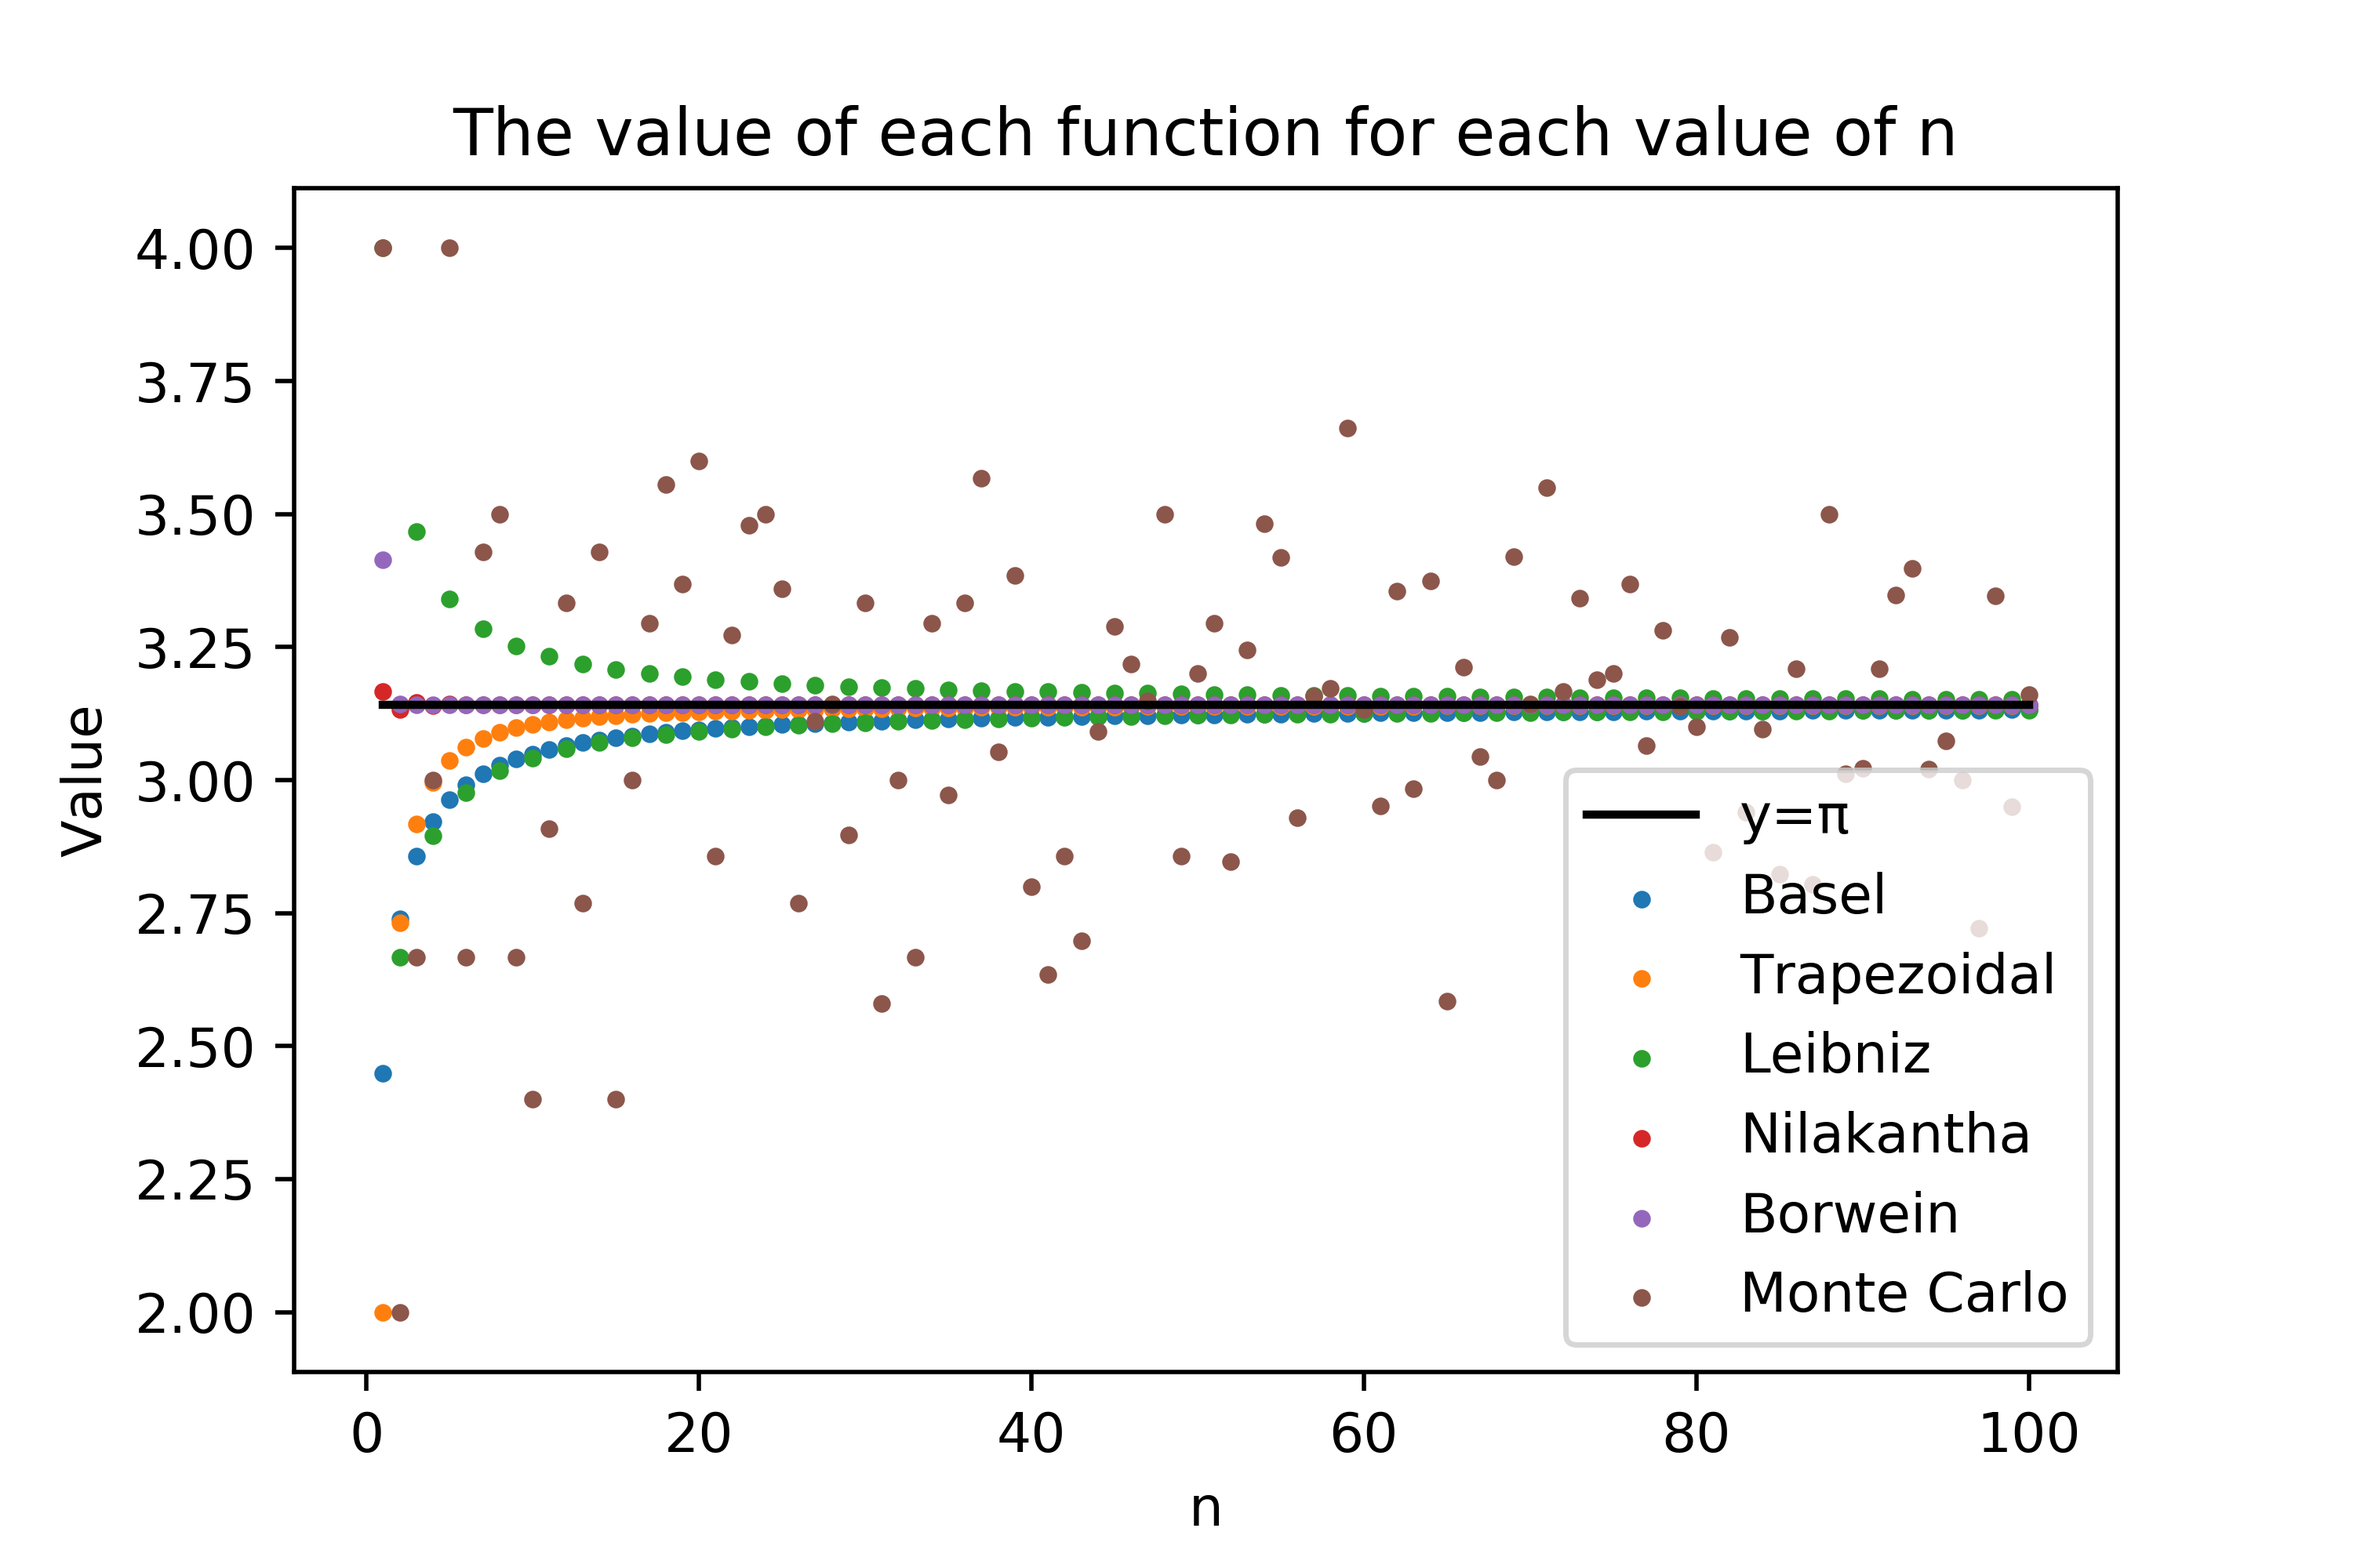
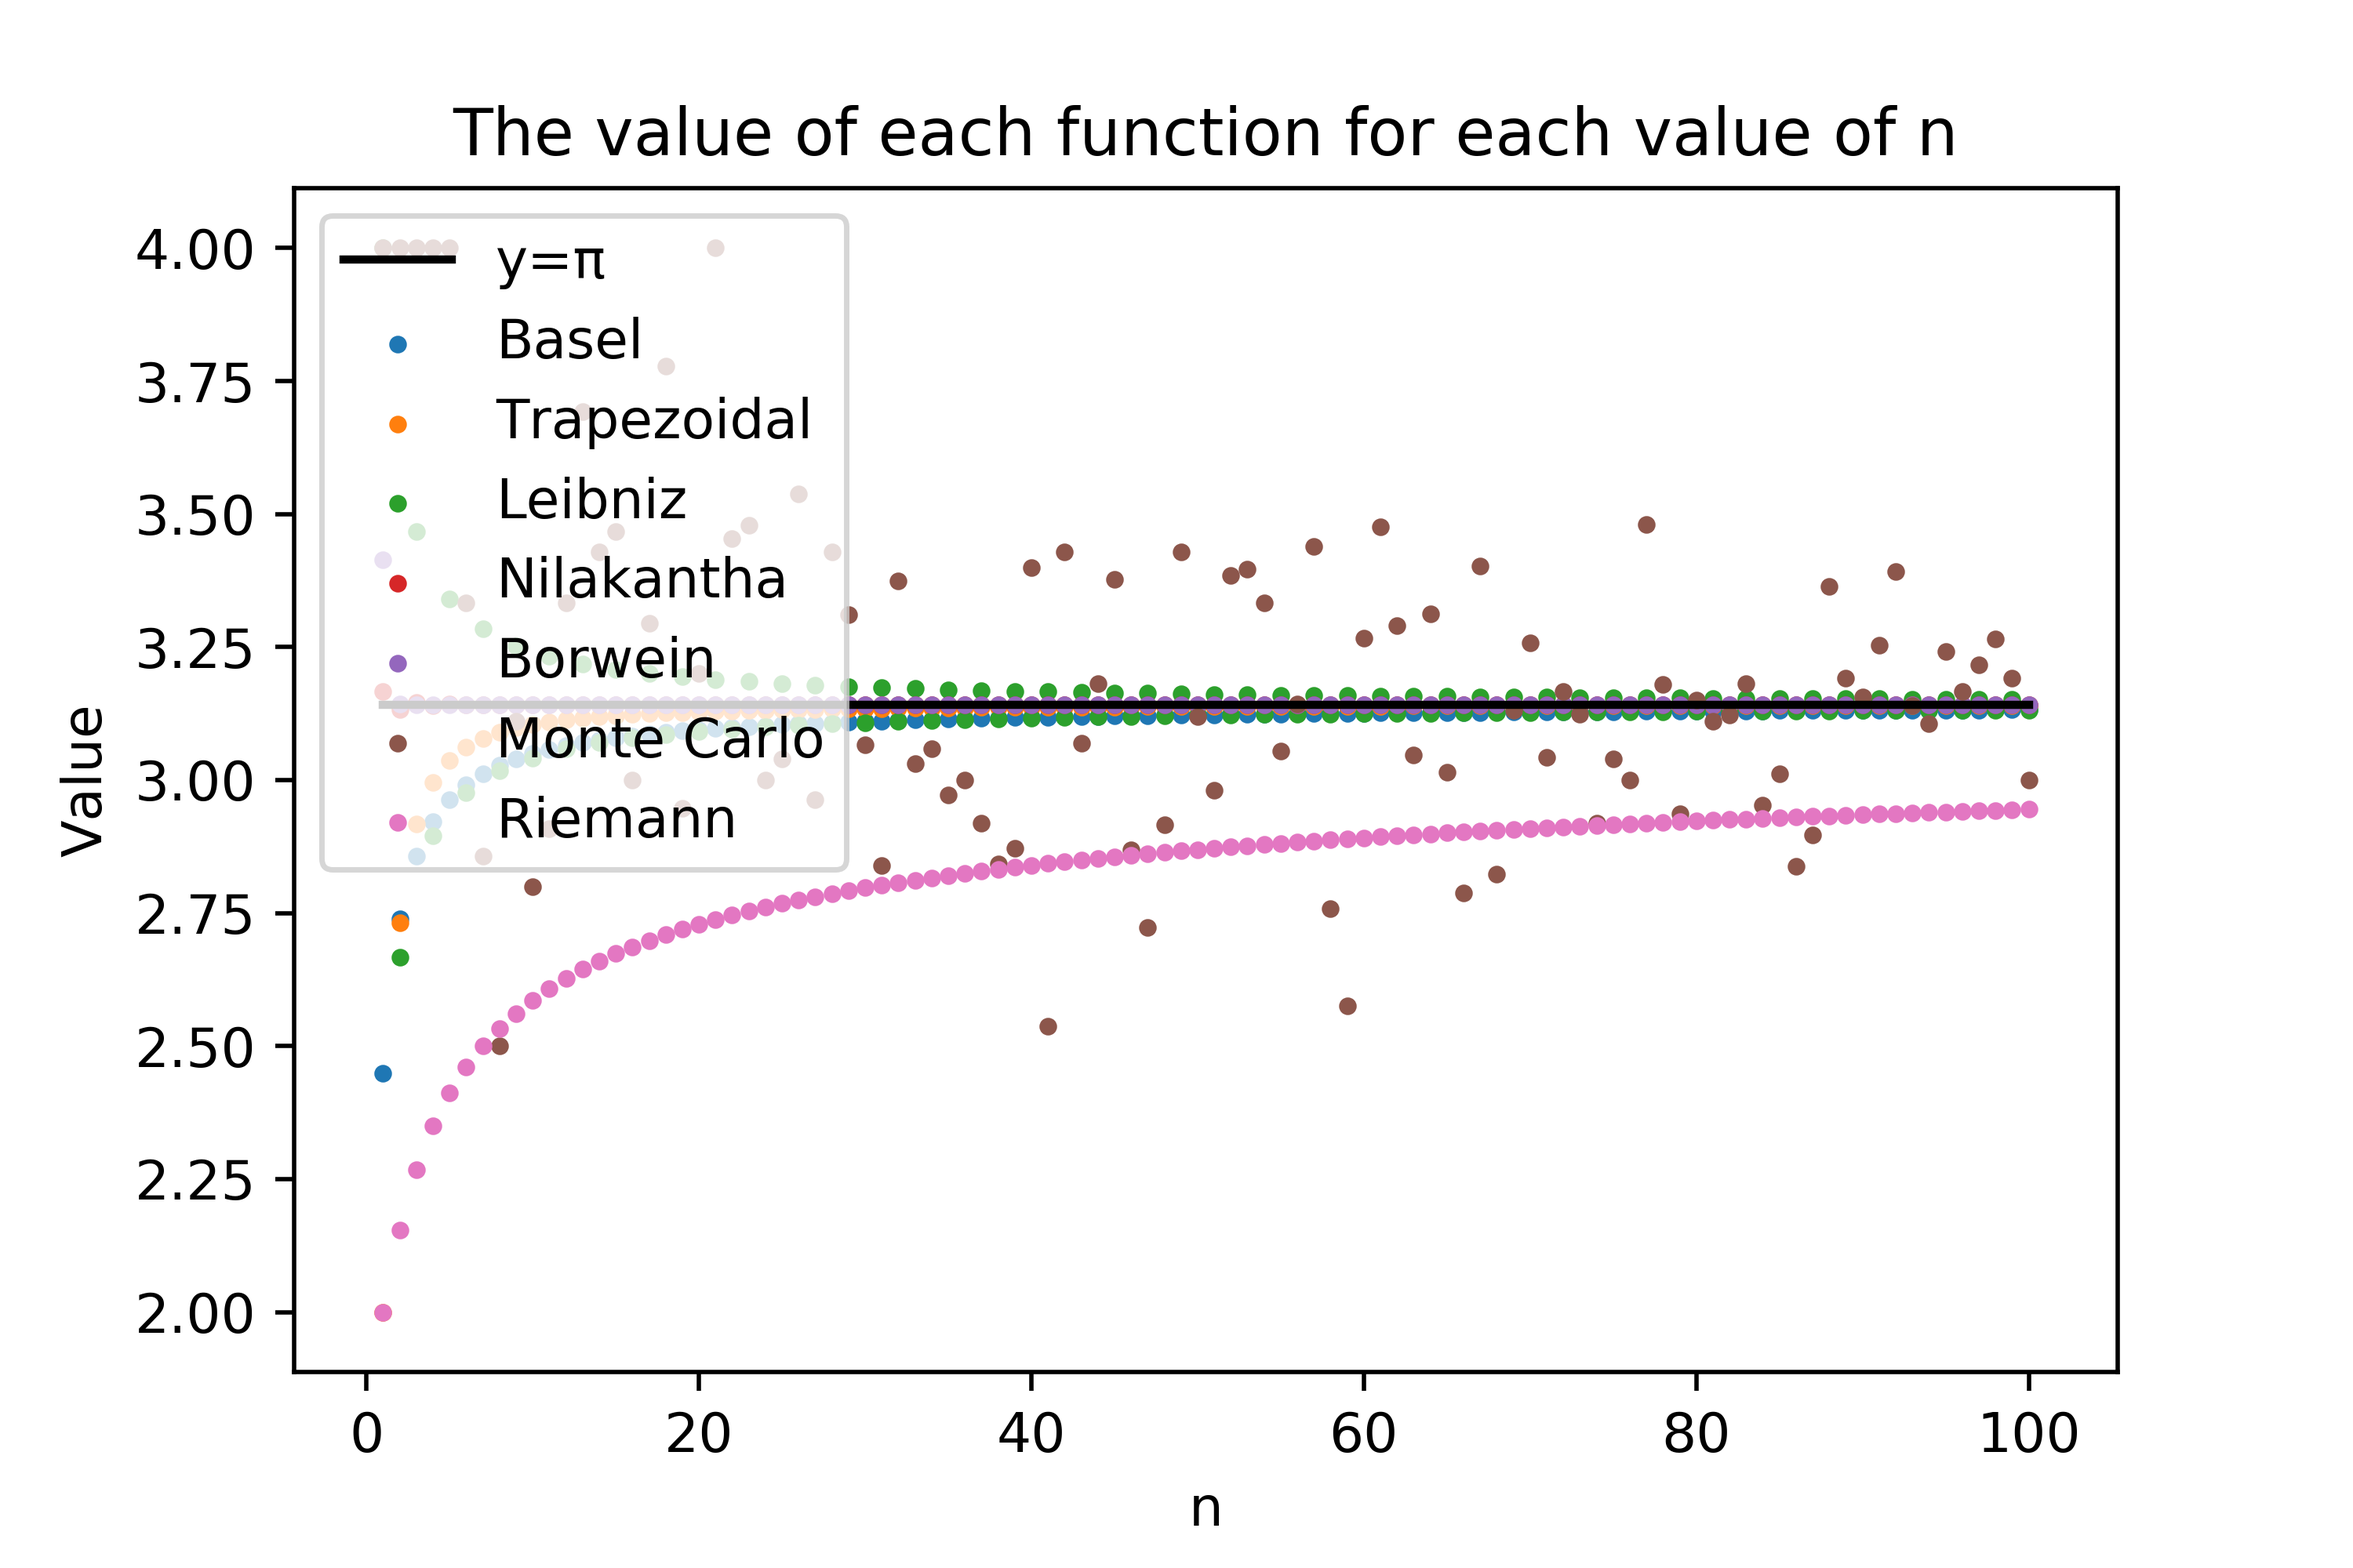
Add files via upload
Updated 'Convergence to pi.png' to include the Riemann sum estimation.

diff --git a/comparing_pi_estimates.py b/comparing_pi_estimates.py
@@ -16,11 +16,6 @@ def basel(n):
     basel_sum = sum([1/i**2 for i in range(1,n+1)])
     return math.sqrt(6*basel_sum)
 
-#This computes the Riemann sum of 1/sqrt(1-x^2), the derivative of arcsin(x) from 0 to 1 using n rectangles and left endpoints. The integral produces the value pi/2.
-def riemann(n):
-    riemann_sum = sum([(1/math.sqrt(1-(i/n)**2))*(1/n) for i in range(n)])
-    return 2*riemann_sum
-
 #This computes the trapezoidal sum of sqrt(1-x^2), the formula for the top half of the unit circle from 0 to 1 using n trapezoids. The integral produces the value pi/4.
 def trapezoid(n):
     sum = 0
@@ -36,22 +31,10 @@ def leibniz(n):
     leibniz_sum = sum([(-1)**(n+1)/(2*n-1) for n in range (1,n+1)])
     return 4*leibniz_sum
 
-
-
 #This computes the partial sum of 3 + 4(-1)^(n+1)/((2n)(2n+1)(2n+2)) which evaluates to pi.
 def nilakantha(n):
     nilakantha_sum = sum([4*(-1)**(n+1)/((2*n)*(2*n+1)*(2*n+2)) for n in range(1,n+1)])
     return 3+nilakantha_sum
-
-#This uses the monte carlo method with n points in a 2x2 square that circumscribes a circle with radius 1.
-def monte_carlo(n):
-    yeses = 0
-    for i in range(n):
-        x = random.uniform(-1, 1)
-        y = random.uniform(-1, 1)
-        if math.sqrt(x**2+y**2)<1:
-            yeses+=1
-    return 4*yeses/n
 
 #This uses Borwein's algorithm to recursively find pi. The value of borwein_p(n) converges to pi:
 bor_a = dict()
@@ -88,18 +71,27 @@ def borwein_p(n):
             borwein_p(n-1)
     return bor_p[n]
 
+#This uses the monte carlo method with n points in a 2x2 square that circumscribes a circle with radius 1.
+def monte_carlo(n):
+    yeses = 0
+    for i in range(n):
+        x = random.uniform(-1, 1)
+        y = random.uniform(-1, 1)
+        if math.sqrt(x**2+y**2)<1:
+            yeses+=1
+    return 4*yeses/n
+
+#This computes the Riemann sum of 1/sqrt(1-x^2), the derivative of arcsin(x) from 0 to 1 using n rectangles and left endpoints. The integral produces the value pi/2.
+def riemann(n):
+    riemann_sum = sum([(1/math.sqrt(1-(i/n)**2))*(1/n) for i in range(n)])
+    return 2*riemann_sum
+
 
 def basel_count(epsilon):
     basel_counter = 1
     while abs(basel(basel_counter)-math.pi)>=epsilon:
         basel_counter+=1
     return basel_counter
-
-def riemann_count(epsilon):
-    riemann_counter = 1
-    while abs(riemann(riemann_counter)-math.pi)>=epsilon:
-        riemann_counter +=1
-    return riemann_counter
 
 def trapezoid_count(epsilon):
     trapezoid_counter = 1
@@ -133,6 +125,12 @@ def monte_count(epsilon):
             carlo_count+=1
         monte_list.append(carlo_count)
     return numpy.median(monte_list)
+
+def riemann_count(epsilon):
+    riemann_counter = 1
+    while abs(riemann(riemann_counter)-math.pi)>=epsilon:
+        riemann_counter +=1
+    return riemann_counter
 
 def steps_to_epsilon(epsilon):
     print('To get your estimate within epsilon = ' + str(epsilon) + ' of π, it takes')
@@ -180,6 +178,7 @@ leibniz_list = [leibniz(point) for point in x2]
 nilakantha_list = [nilakantha(point) for point in x2]
 borwein_list = [borwein_p(point) for point in x2]
 monte_list = [monte_carlo(point) for point in x2]
+riemann_list = [riemann(point) for point in x2]
 
 plt.plot(x2,[math.pi]*len(x2), c='black')    
 plt.scatter(x2, basel_list, s=5)
@@ -188,9 +187,10 @@ plt.scatter(x2, leibniz_list, s=5)
 plt.scatter(x2, nilakantha_list, s=5)
 plt.scatter(x2, borwein_list, s=5)
 plt.scatter(x2, monte_list, s=5)
+plt.scatter(x2, riemann_list, s=5)
 plt.xlabel('n')
 plt.ylabel('Value')
 plt.title('The value of each function for each value of n')
-plt.legend(['y=π', 'Basel', 'Trapezoidal', 'Leibniz', 'Nilakantha', 'Borwein', 'Monte Carlo'])
+plt.legend(['y=π', 'Basel', 'Trapezoidal', 'Leibniz', 'Nilakantha', 'Borwein', 'Monte Carlo', 'Riemann'])
 plt.savefig('Convergence to pi.png', dpi=500)
 
